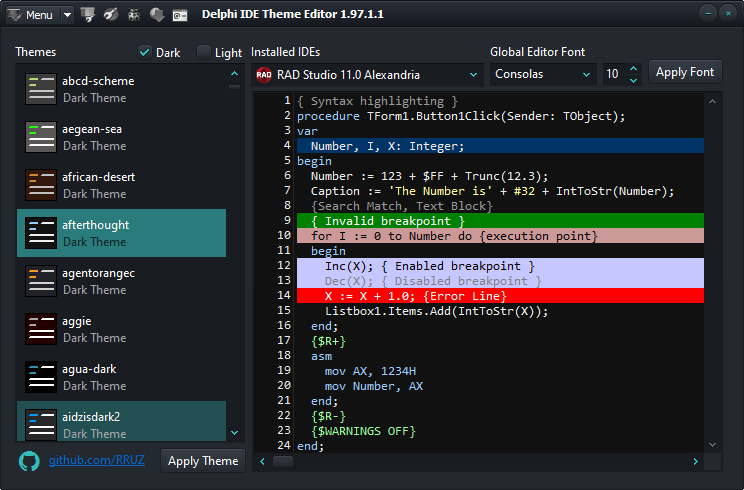
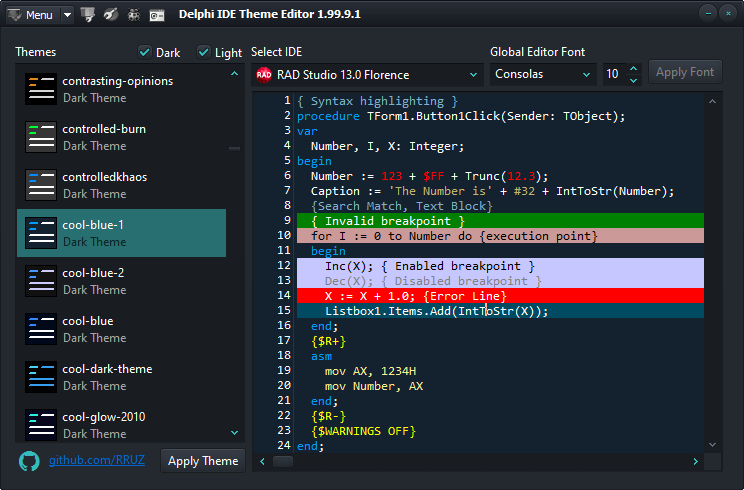
* Added Support for Delphi 13. * Removed auto-update feature.

diff --git a/README.md b/README.md
@@ -12,7 +12,7 @@ DITE supports
 * Delphi 7. 
 * RAD Studio 2005-2010 
 * RAD Studio XE-XE8 
-* RAD Studio 10 Seattle, 10.1 Berlin, 10.2 Tokyo, 10.3 Rio, 10.4 Sydney, 11 Alexandria, 12 Athens
+* RAD Studio 10 Seattle, 10.1 Berlin, 10.2 Tokyo, 10.3 Rio, 10.4 Sydney, 11 Alexandria, 12 Athens, 13 Florence
 * Lazarus v1.0.6
 * Appmethod 1.13-1.16
 * Smart Mobile Studio IDE v1.1.2.17